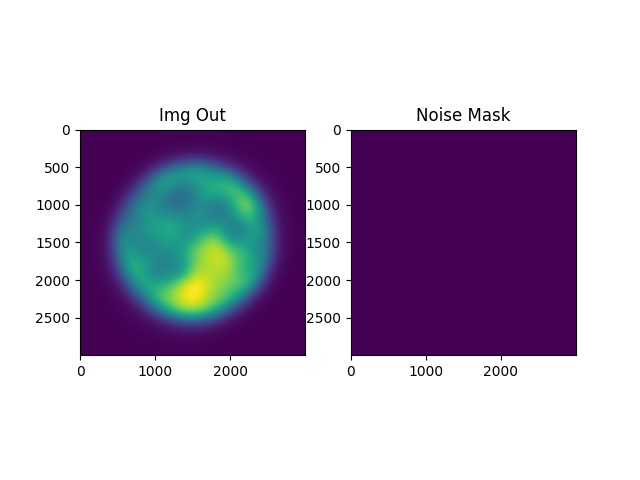
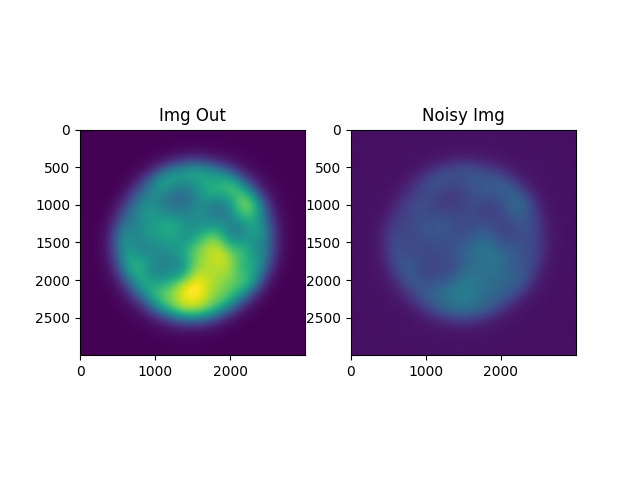
fixed poisson noise generation

Changed region(s): [[0.5625, 0.3125, 0.875, 0.6875], [0.625, 0.2188, 0.8125, 0.25]]

diff --git a/python_scripts/gbs_otf.py b/python_scripts/gbs_otf.py
@@ -8,6 +8,7 @@ import numpy as np
 from numpy import squeeze, ceil, real
 from scipy.fft import fft2, ifft2, fftshift
 import matplotlib.pyplot as plt
+from skimage.util import random_noise
 import os
 
 
@@ -61,35 +62,30 @@ photon_img = np.load(path + 'photon_img.npy')
 
 output_img = real(ifft2(np.multiply(otfTurbulent, fft2(photon_img))))
 
-# fig = plt.figure()
-# ax = fig.add_subplot(projection='3d')
-# X = np.arange(0,len(otfTurbulent))
-# Y = np.arange(0,len(otfTurbulent))
-# X,Y = np.meshgrid(X, Y)
-
-# ax.plot_surface(X,Y, (abs(fftshift(fft2(photon_img)))))
-# ax.plot_surface(X,Y, (abs(fftshift(atmosphere_otf))))
-# plt.savefig('fft_photonimg')
-
 # Add Poison Noise
-noise_mask = np.random.poisson(real(output_img))
-noisy_img = output_img + noise_mask
+noisy_img = random_noise(real(output_img), mode='poisson')
 
-f, ax = plt.subplots(1,2)
-ax[0].imshow(output_img)
-ax[0].set_title('Img Out')
-ax[1].imshow(noise_mask)
-ax[1].set_title('Noise Mask')
-plt.savefig('noisy plots')
-# print(noise_mask.max())
+# f, ax = plt.subplots(1,2)
+# ax[0].imshow(output_img)
+# ax[0].set_title('Img Out')
+# ax[1].imshow(noisy_img)
+# ax[1].set_title('Noisy Img')
+# plt.savefig('noisy plots')
+# # print(noise_mask.max())
 
 
 # Plots
-# f, axarr = plt.subplots(1,3)
-# axarr[0].imshow(photon_img)
-# axarr[0].set_title('Simulated Moon')
-# axarr[1].imshow(output_img)
-# axarr[1].set_title('Telescope x Moon')
-# axarr[2].imshow(noisy_img)
-# axarr[2].set_title('Noisy Img')
-# plt.savefig('plots')
+f, axarr = plt.subplots(1,3)
+axarr[0].imshow(photon_img)
+axarr[0].set_xlabel('Simulated Moon')
+axarr[0].tick_params(left = False, right = False , labelleft = False , 
+                labelbottom = False, bottom = False) 
+axarr[1].imshow(output_img)
+axarr[1].set_xlabel('Telescope x Moon')
+axarr[1].tick_params(left = False, right = False , labelleft = False , 
+                labelbottom = False, bottom = False) 
+axarr[2].imshow(noisy_img)
+axarr[2].set_xlabel('Noisy Img')
+axarr[2].tick_params(left = False, right = False , labelleft = False , 
+                labelbottom = False, bottom = False) 
+plt.savefig('plots')
